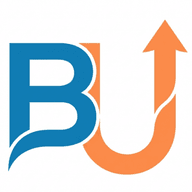
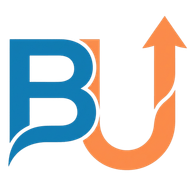
Fix unreadable text on the Bold template, and the /bizup login hop
Dewald sent a real invoice with the number and both dates invisible
against the navy band. Only the title was taking the white: everything
else in the block kept the page's dark default. A colour passed to a block
has to reach everything in it, so both the title block and the issuer
block now apply it to every line rather than relying on a parent View.
The draft badge is normally red, which is no more readable on navy than
the dark text was, so on a coloured band it takes the band's own ink and
leans on weight instead.

Checked all five templates in both issued and draft states rather than
only the one that was reported, since the same mistake could have been
anywhere a colour is passed down.

Login no longer bounces through the prefix. The proxy already corrected
/bizup/login to /login, so the chain ended in the right place, but the app
emitted the prefixed path first and the member saw it on the way. Every
redirect now asks for the right path up front via bizupLoginPath, which
returns /login on BizUp's own hostname and keeps the prefix everywhere
else, so BizUp served from the Growth domain still works.

Favicon regenerated from the transparent icon Dewald uploaded. Verified
the alpha channel rather than trusting the filename: corner pixel is fully
transparent, so it keeps a transparent background at 192px and 10.7KB.

Changed region(s): [[0.0312, 0.0625, 1.0, 0.9375], [0.1562, 0.4062, 0.375, 0.4688], [0.125, 0.2812, 0.4062, 0.4062]]

diff --git a/src/lib/bizup/pdf/document.tsx b/src/lib/bizup/pdf/document.tsx
@@ -87,18 +87,19 @@ const BRAND = "#0f2d52";
 // ============================================================
 
 /** Supplier identity. Carries the supplier address and, for a vendor, the VAT number. Both mandatory on every skin. */
-function IssuerBlock({ data, serif = false, align = "right" }: { data: PdfDocumentData; serif?: boolean; align?: "left" | "right" }) {
+function IssuerBlock({ data, serif = false, align = "right", color }: { data: PdfDocumentData; serif?: boolean; align?: "left" | "right"; color?: string }) {
   const b = serif ? base.boldSerif : base.bold;
+  const ink = color ?? "#1a1a1a";
   return (
-    <View style={align === "right" ? base.right : undefined}>
-      <Text style={[b, { fontSize: 12 }]}>{data.issuer.business_name}</Text>
-      {data.issuer.trading_name ? <Text>trading as {data.issuer.trading_name}</Text> : null}
-      {data.issuer.address ? <Text>{data.issuer.address}</Text> : null}
+    <View style={[align === "right" ? base.right : {}, { color: ink }]}>
+      <Text style={[b, { fontSize: 12, color: ink }]}>{data.issuer.business_name}</Text>
+      {data.issuer.trading_name ? <Text style={{ color: ink }}>trading as {data.issuer.trading_name}</Text> : null}
+      {data.issuer.address ? <Text style={{ color: ink }}>{data.issuer.address}</Text> : null}
       {data.issuer.is_vat_vendor && data.issuer.vat_number ? (
-        <Text>VAT No. {data.issuer.vat_number}</Text>
+        <Text style={{ color: ink }}>VAT No. {data.issuer.vat_number}</Text>
       ) : null}
-      {data.issuer.phone ? <Text>{data.issuer.phone}</Text> : null}
-      {data.issuer.email ? <Text>{data.issuer.email}</Text> : null}
+      {data.issuer.phone ? <Text style={{ color: ink }}>{data.issuer.phone}</Text> : null}
+      {data.issuer.email ? <Text style={{ color: ink }}>{data.issuer.email}</Text> : null}
     </View>
   );
 }
@@ -106,19 +107,30 @@ function IssuerBlock({ data, serif = false, align = "right" }: { data: PdfDocume
 /** Title and the document number. A draft says so, because a draft correctly has no number (Sec 5). */
 function TitleBlock({ data, serif = false, color }: { data: PdfDocumentData; serif?: boolean; color?: string }) {
   const b = serif ? base.boldSerif : base.bold;
+
+  // The colour applies to every line here, not only the heading. Bold puts
+  // this block on a dark navy band, and previously only the title took the
+  // white: the number and the dates kept the page's dark default and were
+  // effectively invisible against the band. Found by Dewald on a real
+  // invoice. A colour passed to a block has to reach everything in it.
+  const ink = color ?? "#1a1a1a";
+
   return (
-    <View>
-      <Text style={[b, { fontSize: 20, color: color ?? "#1a1a1a" }]}>
+    <View style={{ color: ink }}>
+      <Text style={[b, { fontSize: 20, color: ink }]}>
         {documentTitle(data.docType, data.issuer.is_vat_vendor)}
       </Text>
       {data.number ? (
-        <Text style={{ marginTop: 4 }}>{data.number}</Text>
+        <Text style={{ marginTop: 4, color: ink }}>{data.number}</Text>
       ) : (
-        <Text style={[base.draft, b]}>DRAFT, NOT YET ISSUED</Text>
+        // The draft warning is normally red. On a dark band red is no more
+        // readable than the dark text was, so it takes the band's own ink
+        // and leans on weight instead.
+        <Text style={[base.draft, b, color ? { color: ink } : {}]}>DRAFT, NOT YET ISSUED</Text>
       )}
-      {data.issueDate ? <Text>Issued {data.issueDate}</Text> : null}
-      {data.dueDate ? <Text>Due {data.dueDate}</Text> : null}
-      {data.validUntil ? <Text>Valid until {data.validUntil}</Text> : null}
+      {data.issueDate ? <Text style={{ color: ink }}>Issued {data.issueDate}</Text> : null}
+      {data.dueDate ? <Text style={{ color: ink }}>Due {data.dueDate}</Text> : null}
+      {data.validUntil ? <Text style={{ color: ink }}>Valid until {data.validUntil}</Text> : null}
     </View>
   );
 }
@@ -301,9 +313,7 @@ function Bold({ data }: { data: PdfDocumentData }) {
       <View style={{ backgroundColor: BRAND, padding: 24, marginHorizontal: -40, marginBottom: 22 }}>
         <View style={base.between}>
           <TitleBlock data={data} color="#ffffff" />
-          <View style={{ color: "#ffffff" }}>
-            <IssuerBlock data={data} />
-          </View>
+          <IssuerBlock data={data} color="#ffffff" />
         </View>
       </View>
       <CustomerBlock data={data} />

diff --git a/src/app/bizup/settings/banking/page.tsx b/src/app/bizup/settings/banking/page.tsx
@@ -1,4 +1,5 @@
 import type { Metadata } from "next";
+import { bizupLoginPath } from "@/lib/bizup/product";
 import Link from "next/link";
 import { redirect } from "next/navigation";
 import { createClient as createServerClient } from "@/lib/supabase/server";
@@ -17,7 +18,7 @@ export default async function BizUpBankingPage() {
   const {
     data: { user },
   } = await supabase.auth.getUser();
-  if (!user) redirect("/bizup/login");
+  if (!user) redirect(await bizupLoginPath());
 
   const admin = createAdminClient();
   const { data: account } = await admin
@@ -29,7 +30,7 @@ export default async function BizUpBankingPage() {
   if (!account) redirect("/bizup/start");
 
   const summary = await getBankSummary();
-  if (!summary) redirect("/bizup/login");
+  if (!summary) redirect(await bizupLoginPath());
 
   return (
     <main className="flex flex-1 flex-col bg-gray-50">

diff --git a/src/lib/bizup/product.ts b/src/lib/bizup/product.ts
@@ -74,3 +74,18 @@ export const PRODUCT_LOGIN: Record<Product, string> = {
   growth: "/login",
   bizup: "/bizup/login",
 };
+
+/**
+ * The login path to send a signed-out visitor to.
+ *
+ * On BizUp's own hostname the /bizup prefix is redundant, and emitting it
+ * meant every redirect bounced through bizup.digitalflyer.co.za/bizup/login
+ * before the proxy corrected it. The chain ended in the right place but the
+ * member saw the wrong URL on the way, which Dewald quite reasonably read
+ * as a bug. Emitting the right path first removes the hop entirely.
+ */
+export async function bizupLoginPath(): Promise<string> {
+  const { headers } = await import("next/headers");
+  const host = (await headers()).get("host") ?? "";
+  return host.split(":")[0].toLowerCase().startsWith("bizup.") ? "/login" : "/bizup/login";
+}

diff --git a/src/app/bizup/actions.ts b/src/app/bizup/actions.ts
@@ -6,7 +6,7 @@ import { createClient as createServerClient } from "@/lib/supabase/server";
 import { createAdminClient } from "@/lib/supabase/admin";
 import { businessProfileSchema } from "@/lib/bizup/schemas";
 import { bizUpEntitlementForTier } from "@/lib/bizup/entitlements";
-import { setActiveProductPreference } from "@/lib/bizup/product";
+import { setActiveProductPreference , bizupLoginPath } from "@/lib/bizup/product";
 import type { Tier } from "@/lib/paystack/plans";
 import { isTemplateId } from "@/lib/bizup/pdf/document";
 
@@ -263,5 +263,5 @@ export async function updateTemplate(
 export async function logOutOfBizUp(): Promise<void> {
   const supabase = await createServerClient();
   await supabase.auth.signOut();
-  redirect("/bizup/login");
+  redirect(await bizupLoginPath());
 }

diff --git a/src/app/bizup/invoices/[id]/page.tsx b/src/app/bizup/invoices/[id]/page.tsx
@@ -1,4 +1,5 @@
 import type { Metadata } from "next";
+import { bizupLoginPath } from "@/lib/bizup/product";
 import Link from "next/link";
 import { notFound, redirect } from "next/navigation";
 import { headers } from "next/headers";
@@ -23,7 +24,7 @@ export default async function BizUpInvoicePage({ params }: { params: Promise<{ i
   const { id } = await params;
 
   const account = await currentAccount();
-  if (!account) redirect("/bizup/login");
+  if (!account) redirect(await bizupLoginPath());
 
   const admin = createAdminClient();
   const [{ data: doc }, { data: lines }, { data: payments }, { data: customers }, settings] = await Promise.all([

diff --git a/src/app/bizup/quotes/[id]/page.tsx b/src/app/bizup/quotes/[id]/page.tsx
@@ -1,4 +1,5 @@
 import type { Metadata } from "next";
+import { bizupLoginPath } from "@/lib/bizup/product";
 import Link from "next/link";
 import { notFound, redirect } from "next/navigation";
 import { createAdminClient } from "@/lib/supabase/admin";
@@ -27,7 +28,7 @@ export default async function BizUpQuoteBuilderPage({ params }: { params: Promis
   const { id } = await params;
 
   const account = await currentAccount();
-  if (!account) redirect("/bizup/login");
+  if (!account) redirect(await bizupLoginPath());
 
   const admin = createAdminClient();
   const [{ data: doc }, { data: lines }, { data: customers }, { data: priceList }, settings] =

diff --git a/src/app/bizup/start/page.tsx b/src/app/bizup/start/page.tsx
@@ -1,4 +1,5 @@
 import type { Metadata } from "next";
+import { bizupLoginPath } from "@/lib/bizup/product";
 import { redirect } from "next/navigation";
 import { createClient as createServerClient } from "@/lib/supabase/server";
 import { createBizUpAccount } from "@/app/bizup/actions";
@@ -16,7 +17,7 @@ export default async function BizUpStartPage() {
   const {
     data: { user },
   } = await supabase.auth.getUser();
-  if (!user) redirect("/bizup/login");
+  if (!user) redirect(await bizupLoginPath());
 
   // Signup creates the account row the moment the emailed code is
   // confirmed, so by the time a new member taps "Set up my business" the

diff --git a/src/app/bizup/invoices/actions.ts b/src/app/bizup/invoices/actions.ts
@@ -1,5 +1,6 @@
 "use server";
 
+import { bizupLoginPath } from "@/lib/bizup/product";
 import { revalidatePath } from "next/cache";
 import { redirect } from "next/navigation";
 import { createAdminClient } from "@/lib/supabase/admin";
@@ -289,7 +290,7 @@ export async function markInvoicePaid(formData: FormData): Promise<void> {
  */
 export async function createInvoice(): Promise<void> {
   const account = await currentAccount();
-  if (!account) redirect("/bizup/login");
+  if (!account) redirect(await bizupLoginPath());
 
   const admin = createAdminClient();
   const { data, error } = await admin

diff --git a/src/app/bizup/quotes/actions.ts b/src/app/bizup/quotes/actions.ts
@@ -1,5 +1,6 @@
 "use server";
 
+import { bizupLoginPath } from "@/lib/bizup/product";
 import { redirect } from "next/navigation";
 import { revalidatePath } from "next/cache";
 import { createAdminClient } from "@/lib/supabase/admin";
@@ -35,7 +36,7 @@ function isEditable(doc: { number: string | null; status: string }): boolean {
 
 export async function createQuote(): Promise<void> {
   const account = await currentAccount();
-  if (!account) redirect("/bizup/login");
+  if (!account) redirect(await bizupLoginPath());
 
   const admin = createAdminClient();
   const { data, error } = await admin

diff --git a/src/app/bizup/invoices/[id]/fix/done/page.tsx b/src/app/bizup/invoices/[id]/fix/done/page.tsx
@@ -1,4 +1,5 @@
 import type { Metadata } from "next";
+import { bizupLoginPath } from "@/lib/bizup/product";
 import Link from "next/link";
 import { notFound, redirect } from "next/navigation";
 import { createAdminClient } from "@/lib/supabase/admin";
@@ -25,7 +26,7 @@ export default async function FixDonePage({
   const { cn, new: replacementId } = await searchParams;
 
   const account = await currentAccount();
-  if (!account) redirect("/bizup/login");
+  if (!account) redirect(await bizupLoginPath());
 
   const admin = createAdminClient();
   const { data: doc } = await admin

diff --git a/src/app/bizup/invoices/page.tsx b/src/app/bizup/invoices/page.tsx
@@ -1,4 +1,5 @@
 import type { Metadata } from "next";
+import { bizupLoginPath } from "@/lib/bizup/product";
 import Link from "next/link";
 import { redirect } from "next/navigation";
 import { currentAccount } from "@/lib/bizup/documents";
@@ -22,7 +23,7 @@ const STATUS_LABEL: Record<string, string> = {
 
 export default async function BizUpInvoicesPage() {
   const account = await currentAccount();
-  if (!account) redirect("/bizup/login");
+  if (!account) redirect(await bizupLoginPath());
 
   const admin = createAdminClient();
   const { data: invoices, error } = await admin

diff --git a/src/app/bizup/quotes/page.tsx b/src/app/bizup/quotes/page.tsx
@@ -1,4 +1,5 @@
 import type { Metadata } from "next";
+import { bizupLoginPath } from "@/lib/bizup/product";
 import Link from "next/link";
 import { redirect } from "next/navigation";
 import { currentAccount } from "@/lib/bizup/documents";
@@ -20,7 +21,7 @@ const STATUS_LABEL: Record<string, string> = {
 
 export default async function BizUpQuotesPage() {
   const account = await currentAccount();
-  if (!account) redirect("/bizup/login");
+  if (!account) redirect(await bizupLoginPath());
 
   const admin = createAdminClient();
   const { data: quotes, error } = await admin
